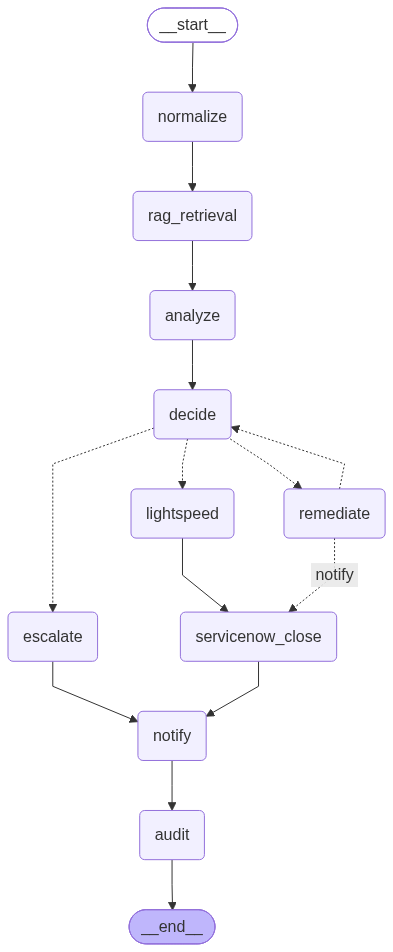
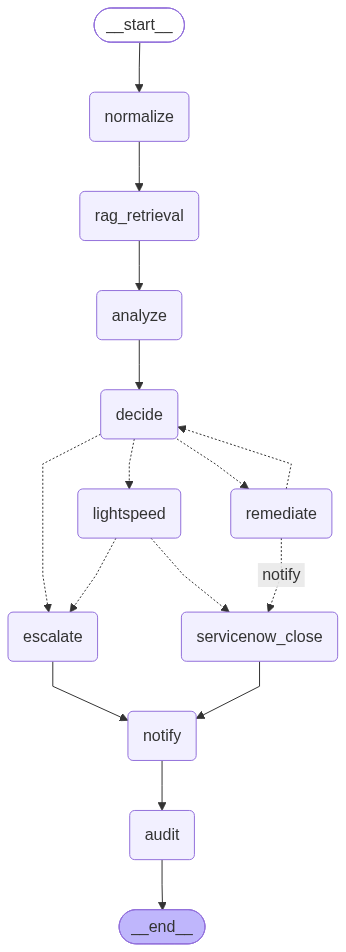
Add SERVICENOW_CREATE_RESOLVED opt-in flag

diff --git a/hub/agent-service/tests/test_servicenow_close.py b/hub/agent-service/tests/test_servicenow_close.py
@@ -1,11 +1,19 @@
 from unittest.mock import patch
 
+import pytest
 from helpers import make_rca, make_state
 
 from agent_service.models import RemediationResult
 from agent_service.nodes.servicenow_close import servicenow_close_node
 
 STUB_TICKET = "INC0050001"
+
+
+@pytest.fixture(autouse=True)
+def _enable_create_resolved():
+    """Enable resolved-ticket creation for all tests; individual tests override as needed."""
+    with patch("agent_service.nodes.servicenow_close.SERVICENOW_CREATE_RESOLVED", True):
+        yield
 
 
 def _stub_remediation(**overrides):
@@ -110,19 +118,15 @@ class TestServicenowCloseHappyPath:
 
 
 class TestServicenowCloseNoOp:
-    async def test_escalate_decision_is_noop(self):
+    async def test_escalate_decision_raises(self):
         state = make_state(
             root_cause_analysis=make_rca(),
             decision="escalate",
             servicenow_ticket="INC0099999",
         )
-        calls, fake_invoke = _make_capture_invoke()
 
-        with patch("agent_service.nodes.servicenow_close._invoke_tool", fake_invoke):
-            result = await servicenow_close_node(state)
-
-        assert result == {}
-        assert len(calls) == 0
+        with pytest.raises(RuntimeError, match="graph wiring error"):
+            await servicenow_close_node(state)
 
     async def test_failed_remediation_is_noop(self):
         state = make_state(
@@ -247,3 +251,54 @@ class TestServicenowCloseErrorHandling:
 
         assert result["servicenow_ticket"] == STUB_TICKET
         assert call_count["n"] == 2
+
+
+# ─────────────────────────────────────────────────────────────────────────────
+# Config flag: SERVICENOW_CREATE_RESOLVED=false skips ticket creation
+# ─────────────────────────────────────────────────────────────────────────────
+
+
+class TestServicenowCloseDisabled:
+    @pytest.fixture(autouse=True)
+    def _disable_create_resolved(self):
+        with patch("agent_service.nodes.servicenow_close.SERVICENOW_CREATE_RESOLVED", False):
+            yield
+
+    async def test_successful_remediation_skipped_when_disabled(self):
+        state = make_state(
+            root_cause_analysis=make_rca(),
+            decision="remediate",
+            remediation_result=_stub_remediation(),
+        )
+        calls, fake_invoke = _make_capture_invoke()
+
+        with patch("agent_service.nodes.servicenow_close._invoke_tool", fake_invoke):
+            result = await servicenow_close_node(state)
+
+        assert result == {}
+        assert len(calls) == 0
+
+    async def test_lightspeed_success_skipped_when_disabled(self):
+        state = make_state(
+            root_cause_analysis=make_rca(),
+            decision="lightspeed",
+            remediation_result=_stub_remediation(),
+        )
+        calls, fake_invoke = _make_capture_invoke()
+
+        with patch("agent_service.nodes.servicenow_close._invoke_tool", fake_invoke):
+            result = await servicenow_close_node(state)
+
+        assert result == {}
+        assert len(calls) == 0
+
+    async def test_escalate_still_raises_when_disabled(self):
+        """The escalate guard fires regardless of the config flag."""
+        state = make_state(
+            root_cause_analysis=make_rca(),
+            decision="escalate",
+            servicenow_ticket="INC0099999",
+        )
+
+        with pytest.raises(RuntimeError, match="graph wiring error"):
+            await servicenow_close_node(state)

diff --git a/hub/agent-service/tests/test_graph.py b/hub/agent-service/tests/test_graph.py
@@ -5,7 +5,7 @@ import pytest
 from click.testing import CliRunner
 
 from agent_service import main
-from agent_service.graph import _route_after_act, build_graph
+from agent_service.graph import _route_after_act, _route_after_lightspeed, build_graph
 from agent_service.models import (
     GraphConfig,
     IncidentState,
@@ -131,6 +131,7 @@ def _patch_graph_nodes():
         patch("agent_service.nodes.lightspeed.LIGHTSPEED_URL", "http://als-stub"),
         patch("agent_service.nodes.lightspeed._call_als", _als_mock),
         patch("agent_service.nodes.lightspeed._invoke_tool", _mock_invoke_tool()),
+        patch("agent_service.nodes.servicenow_close._invoke_tool", _mock_escalate_invoke),
         patch("agent_service.nodes.audit.KafkaProducer"),
     ):
         yield
@@ -261,6 +262,21 @@ class TestConditionalRouting:
         assert result["decision"] == "escalate"
         assert result.get("remediation_result") is None
 
+    async def test_lightspeed_failure_escalates(self, _patch_graph_nodes):
+        als_fail = AsyncMock(side_effect=ConnectionError("ALS unreachable"))
+        with patch("agent_service.nodes.lightspeed._call_als", als_fail):
+            graph = build_graph()
+            result = await graph.ainvoke(
+                {
+                    "raw_event": "test event",
+                    "failure_type_override": "KafkaLag",
+                }
+            )
+
+        assert result["decision"] == "lightspeed"
+        assert result["remediation_result"].success is False
+        assert result["servicenow_ticket"] == "INC0000001"
+
     async def test_custom_thresholds_alter_routing(self, _patch_graph_nodes):
         config = GraphConfig(remediate_threshold=0.9, escalate_threshold=0.8)
         graph = build_graph(config)
@@ -308,6 +324,38 @@ class TestCli:
 
         assert result.exit_code == 0
         assert "next_action: lightspeed" in result.output
+
+
+class TestRouteAfterLightspeed:
+    def test_success_routes_to_servicenow_close(self):
+        result = RemediationResult(
+            action_taken="generate-playbook",
+            tool_used="lightspeed",
+            success=True,
+            job_id="conv-1",
+            duration_seconds=2.0,
+            output_summary="Generated playbook",
+            timestamp="2024-01-01T00:00:00Z",
+        )
+        state = IncidentState(raw_event="test", remediation_result=result)
+        assert _route_after_lightspeed(state) == "servicenow_close"
+
+    def test_failure_routes_to_escalate(self):
+        result = RemediationResult(
+            action_taken="generate-playbook",
+            tool_used="lightspeed",
+            success=False,
+            job_id="",
+            duration_seconds=1.0,
+            output_summary="Lightspeed failed",
+            timestamp="2024-01-01T00:00:00Z",
+        )
+        state = IncidentState(raw_event="test", remediation_result=result)
+        assert _route_after_lightspeed(state) == "escalate"
+
+    def test_no_result_routes_to_escalate(self):
+        state = IncidentState(raw_event="test", remediation_result=None)
+        assert _route_after_lightspeed(state) == "escalate"
 
 
 class TestRouteAfterAct:

diff --git a/hub/agent-service/src/agent_service/nodes/servicenow_close.py b/hub/agent-service/src/agent_service/nodes/servicenow_close.py
@@ -1,15 +1,18 @@
 """ServiceNow incident lifecycle: create-and-resolve after successful remediation.
 
-When remediation or lightspeed succeeds, this node creates an informational
-ServiceNow incident in resolved state so every automated action has a
-corresponding audit trail in ITSM — not just escalations.
+When ``SERVICENOW_CREATE_RESOLVED`` is enabled and remediation or lightspeed
+succeeds, this node creates an informational ServiceNow incident in resolved
+state so every automated action has a corresponding audit trail in ITSM.
+When the flag is disabled (the default), this node is a no-op.
 
-When the decision was ``escalate``, the escalate node already created the
-ticket; this node is a no-op.
+The graph topology must never route escalations here — the escalate node
+owns that ticket.  If this node is reached with decision == "escalate",
+it raises ``RuntimeError`` so the mis-wiring is caught immediately.
 """
 
 from loguru import logger
 
+from agent_service.config import SERVICENOW_CREATE_RESOLVED
 from agent_service.utils import invoke_tool as _invoke_tool
 
 _PRIORITY_MAP = {"critical": 1, "high": 2, "medium": 3, "low": 4}
@@ -48,8 +51,14 @@ def _build_resolution_description(state) -> str:
 async def servicenow_close_node(state) -> dict:
     """Create a pre-resolved ServiceNow incident for successful remediations."""
 
-    # Escalations already have a ticket from the escalate node
     if state.decision == "escalate":
+        raise RuntimeError(
+            "servicenow_close_node reached with decision='escalate'; "
+            "graph wiring error — escalations must route directly to notify"
+        )
+
+    if not SERVICENOW_CREATE_RESOLVED:
+        logger.debug("SERVICENOW_CREATE_RESOLVED is disabled, skipping resolved ticket creation")
         return {}
 
     # Only create a resolved ticket if remediation actually succeeded

diff --git a/hub/agent-service/src/agent_service/graph.py b/hub/agent-service/src/agent_service/graph.py
@@ -26,6 +26,13 @@ def _route_after_act(state: IncidentState) -> str:
     return "decide" if state.should_retry else "notify"
 
 
+def _route_after_lightspeed(state: IncidentState) -> str:
+    result = state.remediation_result
+    if result and result.success:
+        return "servicenow_close"
+    return "escalate"
+
+
 def build_graph(config: Optional[GraphConfig] = None):
     if config is None:
         config = GraphConfig()
@@ -57,7 +64,11 @@ def build_graph(config: Optional[GraphConfig] = None):
         _route_after_act,
         {"decide": "decide", "notify": "servicenow_close"},
     )
-    graph.add_edge("lightspeed", "servicenow_close")
+    graph.add_conditional_edges(
+        "lightspeed",
+        _route_after_lightspeed,
+        {"servicenow_close": "servicenow_close", "escalate": "escalate"},
+    )
     graph.add_edge("escalate", "notify")
     graph.add_edge("servicenow_close", "notify")
     graph.add_edge("notify", "audit")

diff --git a/hub/agent-service/src/agent_service/config.py b/hub/agent-service/src/agent_service/config.py
@@ -79,6 +79,7 @@ SLACK_BOT_TOKEN = os.getenv("SLACK_BOT_TOKEN", "")
 SLACK_CHANNEL = os.getenv("SLACK_CHANNEL", "#ai-driven-network")
 SLACK_TIMEOUT_SECONDS = int(os.getenv("SLACK_TIMEOUT_SECONDS", "10"))
 SERVICENOW_INSTANCE_URL = os.getenv("SERVICENOW_INSTANCE_URL", "")
+SERVICENOW_CREATE_RESOLVED = _env_bool("SERVICENOW_CREATE_RESOLVED", False)
 
 _http_client: httpx.AsyncClient | None = None
 

diff --git a/docs/v2.1-servicenow-integration.md b/docs/v2.1-servicenow-integration.md
@@ -28,18 +28,24 @@ The `decide` node picks one of three paths:
 
 | Confidence | Path | ServiceNow Result |
 |---|---|---|
-| High (known failure) | `remediate` → `servicenow_close` | Resolved ticket (audit trail) |
-| High (novel failure) | `lightspeed` → `servicenow_close` | Resolved ticket (audit trail) |
+| High (known failure), success | `remediate` → `servicenow_close` | Resolved ticket (opt-in via `SERVICENOW_CREATE_RESOLVED`) |
+| High (known failure), retry exhausted | `remediate` → `decide` → `escalate` | Open ticket (human follow-up) |
+| High (novel failure), success | `lightspeed` → `servicenow_close` | Resolved ticket (opt-in via `SERVICENOW_CREATE_RESOLVED`) |
+| High (novel failure), failure | `lightspeed` → `escalate` | Open ticket (human follow-up) |
 | Low | `escalate` | Open ticket (human follow-up) |
 
 ```
 normalize → rag_retrieval → analyze → decide
-                                        ├─ remediate ──→ servicenow_close → notify → audit → END
-                                        ├─ lightspeed ─→ servicenow_close → notify → audit → END
-                                        └─ escalate ───────────────────────→ notify → audit → END
+                                        ├─ remediate ─success─→ servicenow_close → notify → audit → END
+                                        │             └retry──→ decide (loop)
+                                        ├─ lightspeed ─success→ servicenow_close → notify → audit → END
+                                        │              └fail──→ escalate ────────→ notify → audit → END
+                                        └─ escalate ────────────────────────────→ notify → audit → END
 ```
 
-**Key rule:** the `servicenow_close` node is a no-op when the decision was `escalate` (ticket already created) or when remediation failed. It never blocks the pipeline — ServiceNow errors are logged and swallowed.
+**Key rules:**
+- The `servicenow_close` node only creates a resolved ticket when remediation actually succeeded **and** `SERVICENOW_CREATE_RESOLVED=true`. When disabled (the default), the node is a no-op — the Kafka audit topic still records all events. It never blocks the pipeline — ServiceNow errors are logged and swallowed.
+- When lightspeed fails (ALS API error, AAP launch failure), the agent automatically escalates to create an open ServiceNow ticket for human follow-up, regardless of the `SERVICENOW_CREATE_RESOLVED` flag.
 
 ### Ticket Examples
 
@@ -303,6 +309,13 @@ The server exposes 4 tools via LlamaStack:
 | `SERVICENOW_PASSWORD` | For real | — | Basic auth password |
 | `SERVICENOW_API_KEY` | For mock | — | API key for mock service |
 | `SERVICENOW_CALLER_NAME` | No | `NOC Agent` | Caller field on new incidents |
+
+### Agent Service Environment Variables
+
+| Variable | Default | Description |
+|---|---|---|
+| `SERVICENOW_INSTANCE_URL` | `""` | PDI base URL (used for Slack ticket links) |
+| `SERVICENOW_CREATE_RESOLVED` | `false` | Create pre-resolved tickets for successful auto-remediations. When `false`, only escalations produce ServiceNow tickets; the Kafka audit topic still records all events. Set to `true` for full ITSM visibility. |
 
 ---
 
